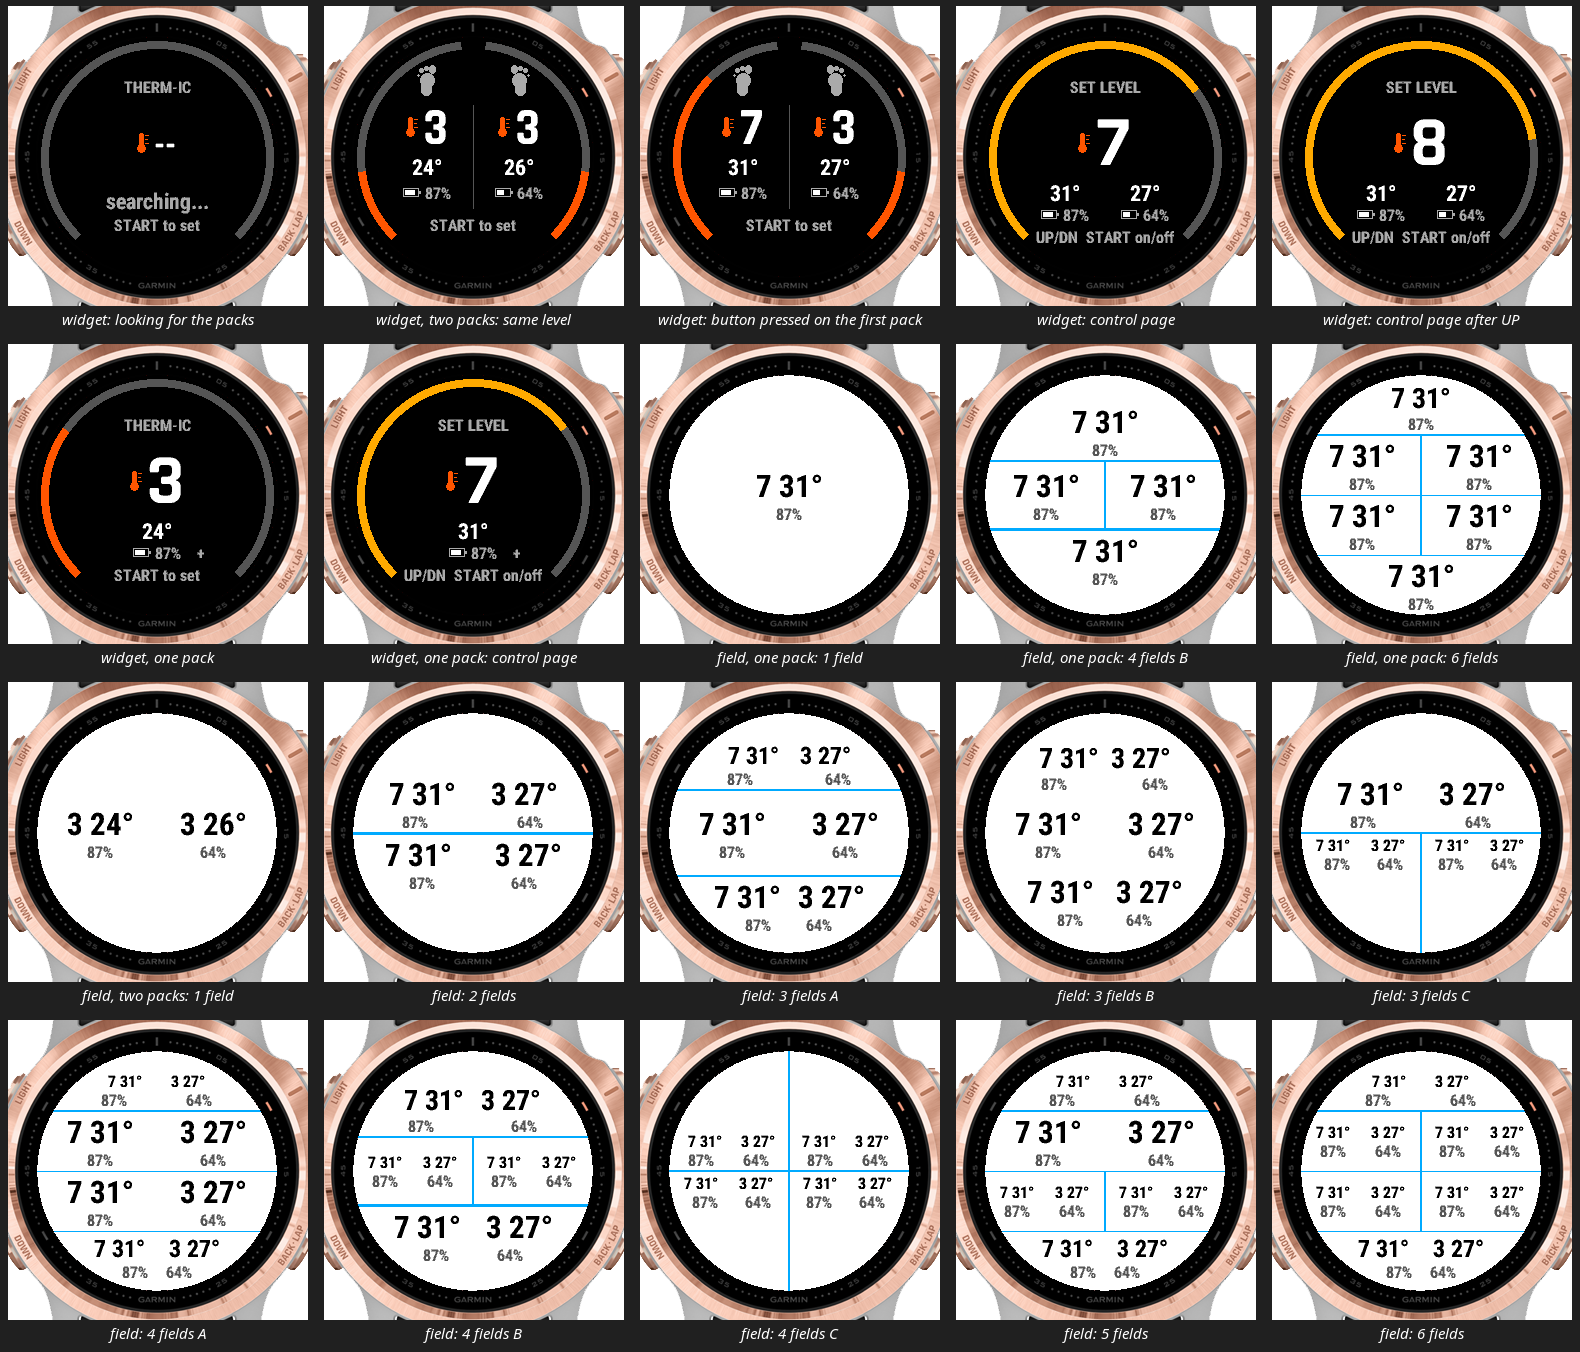
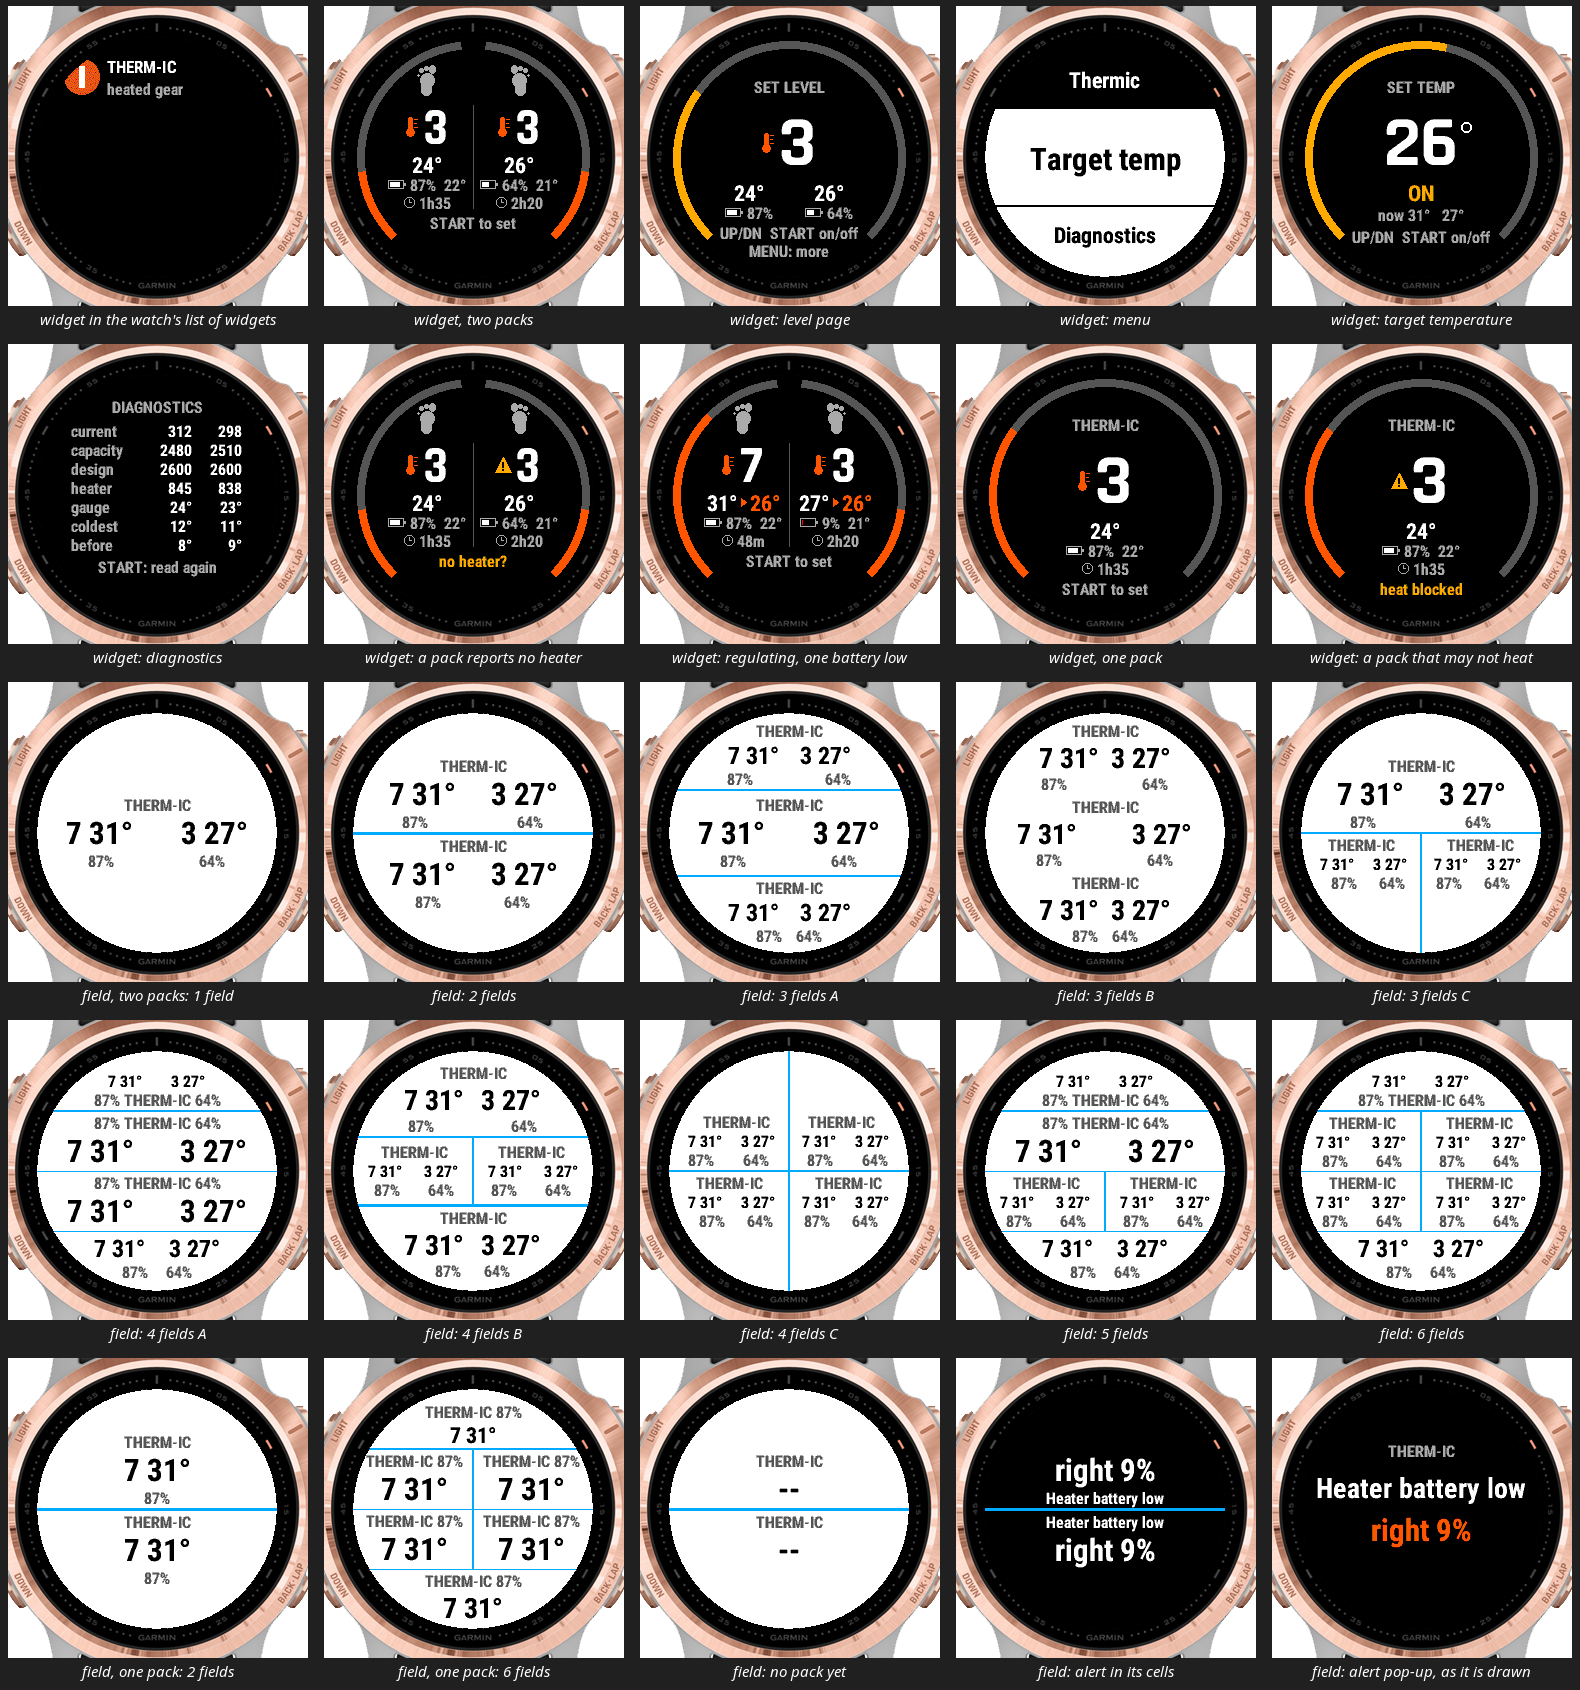
Retake the screenshots for the README
docs/screens.png shows the widget's new pages, the data field with its
label in all ten layouts, and the field's alert.

The widget's demo build takes the icon from private/ when that directory
is there. For this picture it was built from a copy without it, so the
watch's list of widgets shows the icon that is in the repository.

The simulator cannot show the alert's pop-up for this watch. The last
picture is the pop-up's drawing code run in a cell of the field.

diff --git a/AGENTS.md b/AGENTS.md
@@ -256,6 +256,10 @@ Connect IQ:
   emulator learned to disconnect, stopping it left the watch connected to nothing, with
   no "disconnected" in its log, and a test of "the pack is gone" tested nothing. `quit`
   and the `drop` command cut the link now, and the emulator's log says `LINK dropped`.
+- The widget's demo build takes its icon from `private/` like the real one, and the
+  glance shows that icon. For a picture that gets published, build from a copy of
+  `widget/` and `common/` with no `private/` beside it. `docs/screens.png` is made that
+  way, and in metric units: the simulator starts in statute ones.
 - The simulator stops the app while one of its menus is open. Count a `wait:` from the
   moment the menu closes, or the shot shows an earlier state than its name says.
 - The simulator starts with statute units, so temperatures come out in Fahrenheit.

diff --git a/README.md b/README.md
@@ -34,9 +34,11 @@ Experimental, and **not yet tried on real hardware**.
 
 ![The widget and the data field in the simulator](docs/screens.png)
 
-Taken in the simulator with made-up packs. Top row: the widget with two packs. Second
-row: the widget and the data field with one pack. Below: the data field with two packs
-in each of the watch's ten layouts.
+Taken in the simulator with made-up packs. The first two rows are the widget. The next
+two are the data field with two packs in each of the watch's ten layouts. The last row
+is the data field with one pack and with none, and its alert: in the field's own cells,
+and as the pop-up draws it. The simulator does not show that pop-up for this watch, so
+the last picture is its drawing run in a cell of the field.
 
 ## What is here
 
